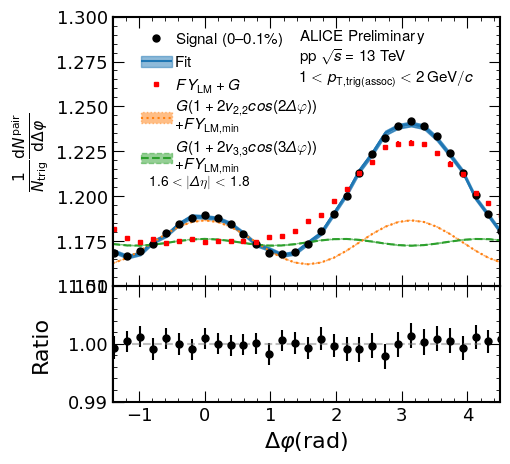
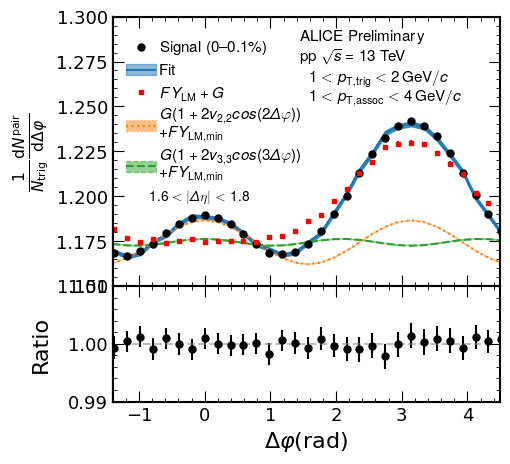
updates

Changed region(s): [[0.2353, 0.0603, 0.9412, 0.4526]]

diff --git a/Fig1_FlotExt.py b/Fig1_FlotExt.py
@@ -66,7 +66,7 @@ plot = JPyPlotRatio.JPyPlotRatio(panels=(nrow,ncol),
 	ratioPlot=True,
 	panelLabelLoc=(0.1,0.87),panelLabelSize=10,panelLabelAlign="left",
 	legendPanel=0,
-	legendLoc=(0.3,0.68),legendSize=11,xlabel=xtitle[0],ylabel=ytitle[0]);
+	legendLoc=(0.26,0.65),legendSize=11,xlabel=xtitle[0],ylabel=ytitle[0]);
 
 
 
@@ -92,8 +92,9 @@ f.Close();
 
 plot.GetPlot().text(0.5,0.83,"ALICE Preliminary",fontsize=11);
 plot.GetPlot().text(0.5,0.79,toptitle,fontsize=11);
-plot.GetPlot().text(0.5,0.75,"$1 < p_\\mathrm{T,trig(assoc)} < 2 \\,\\mathrm{GeV}/c$",fontsize=11);
-plot.GetPlot().text(0.2,0.54,"$1.6 < |\\Delta\\eta| < 1.8$",fontsize=10);
+plot.GetPlot().text(0.52,0.75,"$1 < p_\\mathrm{T,trig} < 2 \\,\\mathrm{GeV}/c$",fontsize=11);
+plot.GetPlot().text(0.52,0.71,"$1 < p_\\mathrm{T,assoc} < 4 \\,\\mathrm{GeV}/c$",fontsize=11);
+plot.GetPlot().text(0.2,0.51,"$1.6 < |\\Delta\\eta| < 1.8$",fontsize=10);
 plot.GetRatioAxes(0).xaxis.set_ticks_position('both');
 plot.GetRatioAxes(0).yaxis.set_ticks_position('both');
 #plot.GetAxes(0).xticks(rotation=45)
